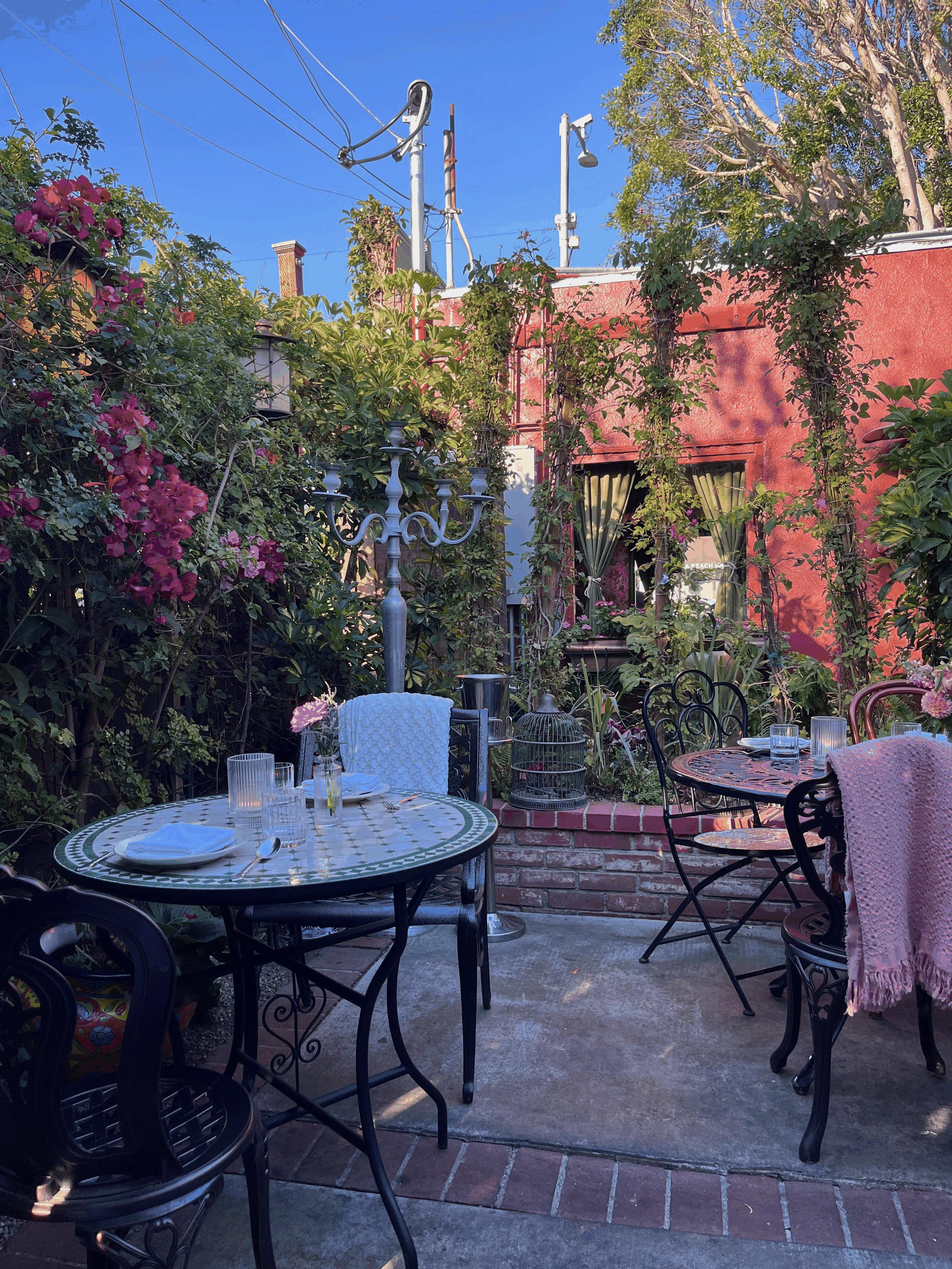
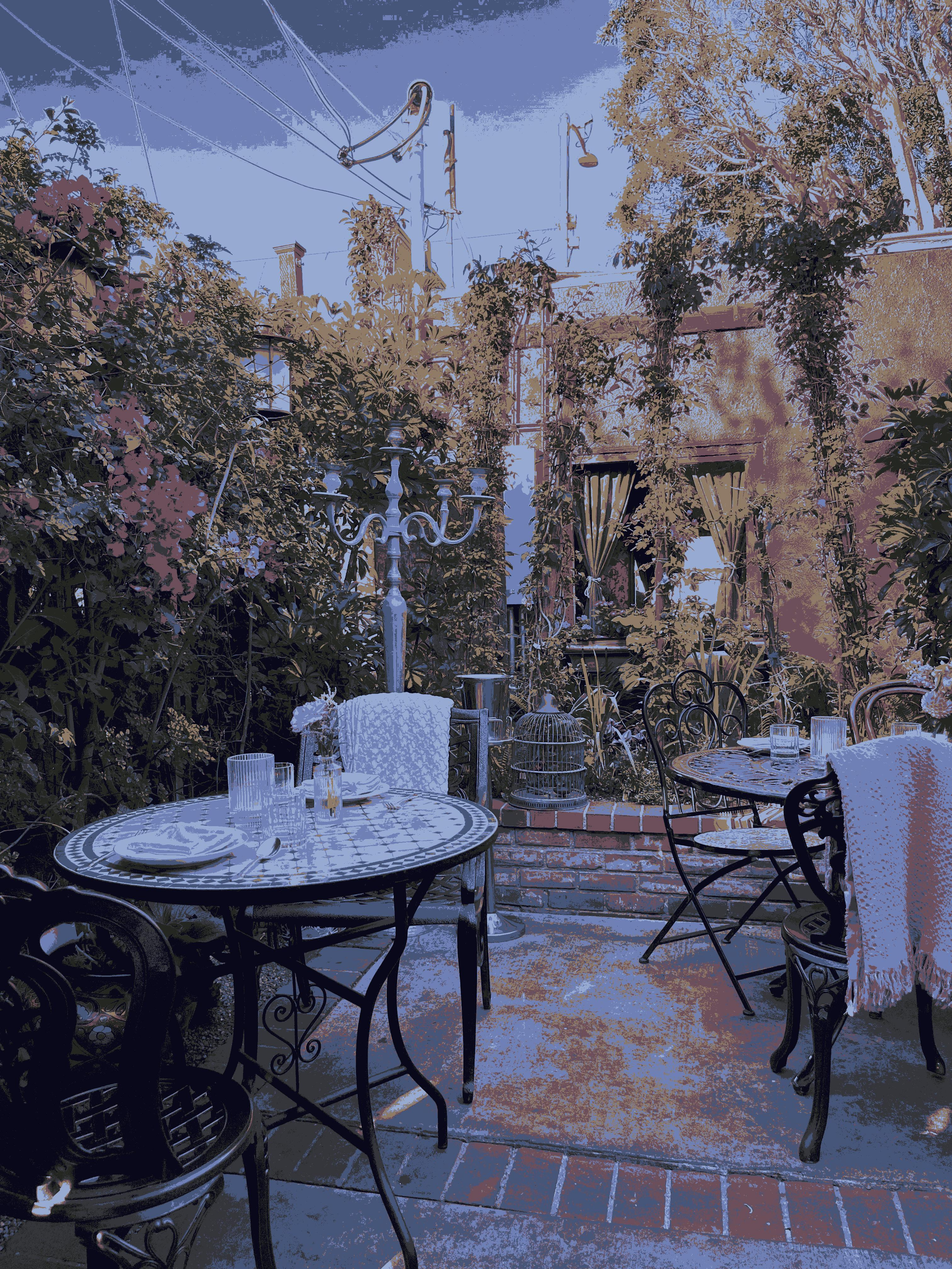
add example image

diff --git a/examples/basic/main.go b/examples/basic/main.go
@@ -17,7 +17,7 @@ func main() {
 		panic(err)
 	}
 	// want to reduce the source image to 256 colors
-	colors := make(color.Palette, 256)
+	colors := make(color.Palette, 8)
 	// imgCpy is the new image containing 256 colors
 	imgCpy, err := mediancut.Quantize(img, colors, mediancut.QuickSelect)
 	if err != nil {

diff --git a/README.MD b/README.MD
@@ -29,4 +29,4 @@ func main() {
 ```
 
 ## Example
-<img src="https://github.com/alabianca/quantizer/blob/main/examples/basic/cobi.jpg"/>
+<img src="https://github.com/alabianca/quantizer/blob/main/docs/example_quantization.png"/>
